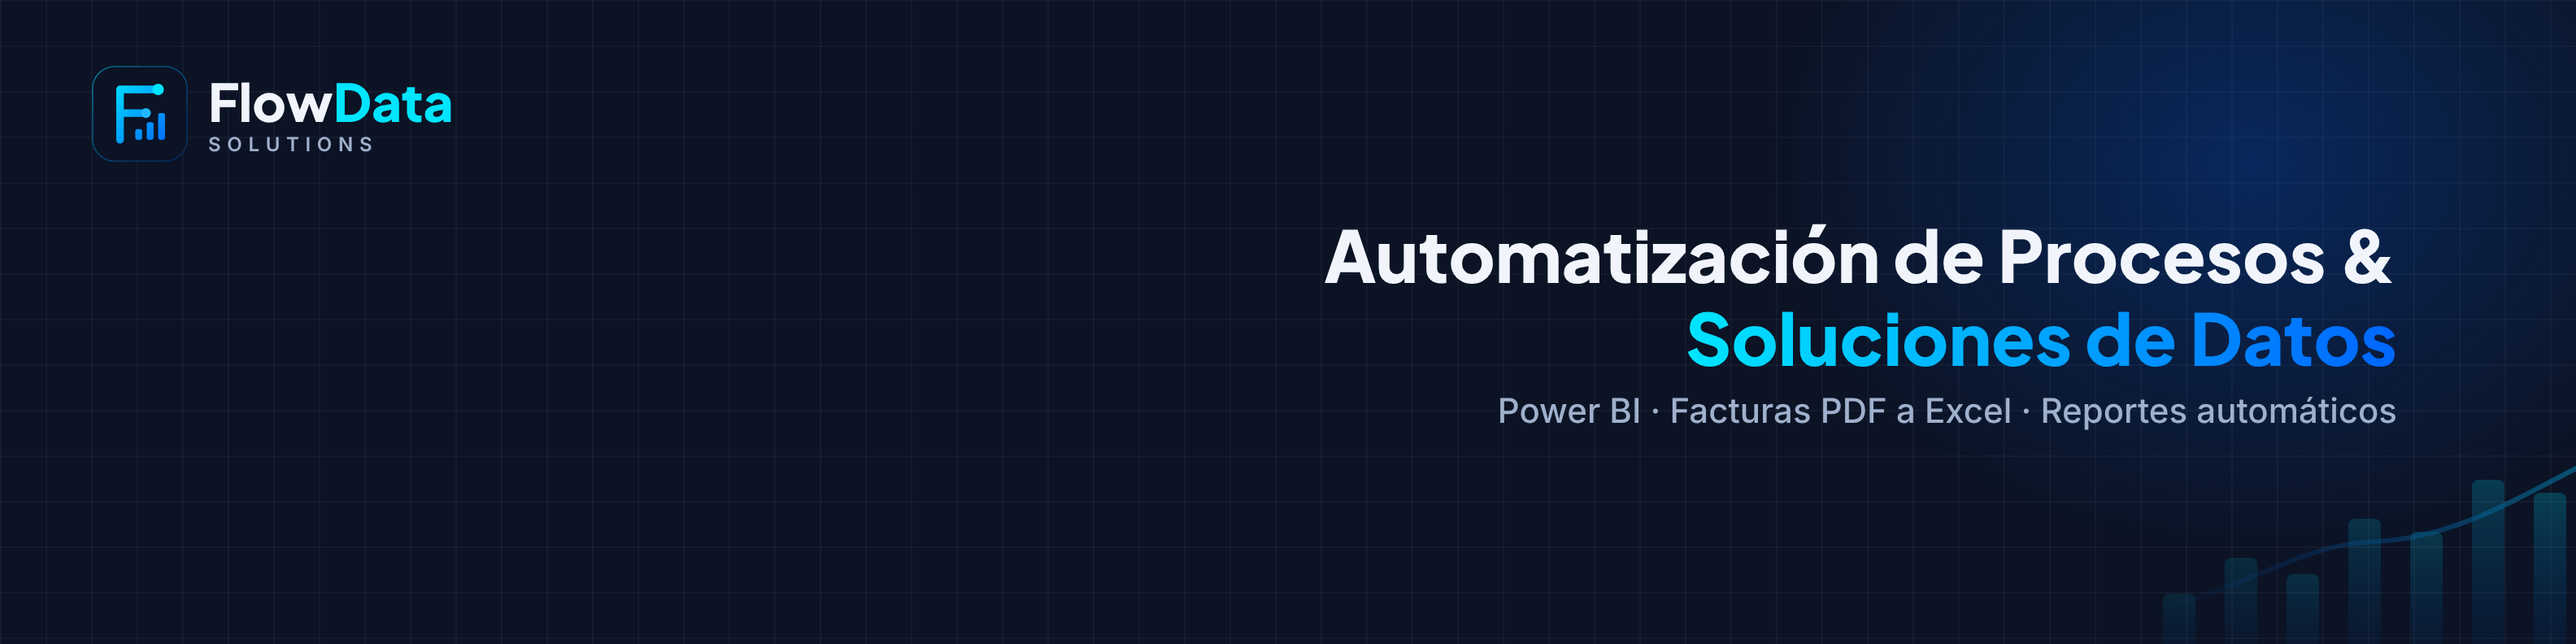
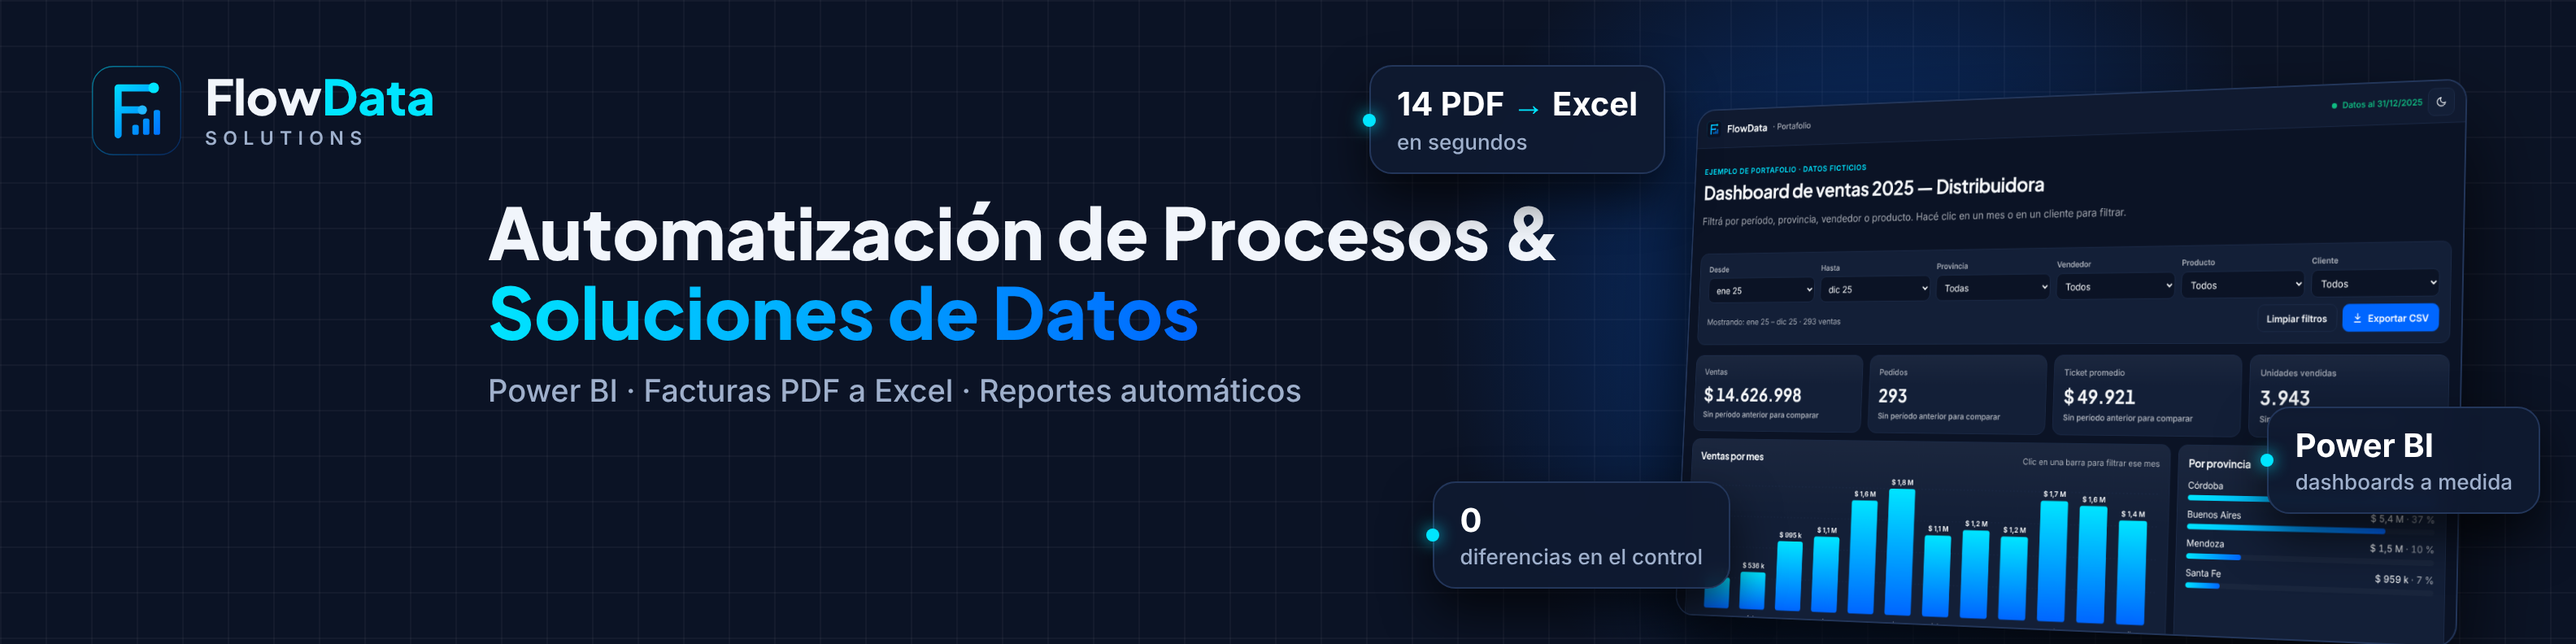
LinkedIn: portada con el dashboard del portafolio en lugar de la foto
Claude-Session: https://claude.ai/code/session_01Ugs44XARf7PNTcP8TDkjX2

diff --git a/gestion/perfil-linkedin.md b/gestion/perfil-linkedin.md
@@ -14,7 +14,7 @@
 |---|---|
 | Nombre | `Dante` · Apellido `I` (ajustado el 09/11: nombre de pila + inicial, como en Fiverr; la marca va en portada, titular y experiencia — LinkedIn no permite nombres de empresa en el campo del nombre) |
 | Foto | `marca/isotipo-400.png` |
-| Portada | `marca/linkedin-portada-perfil-1584x396.png` (4:1; la de 4200 × 700 es para páginas de empresa) |
+| Portada | `marca/linkedin-portada-perfil-1584x396.png` (4:1, con el dashboard del portafolio y tarjetas de métricas; sin la cara, porque ya está en la foto de perfil). La foto de perfil con la foto del dueño **no** se guarda en el repo público. |
 | Titular | `Dashboards en Power BI · Facturas PDF a Excel · Reportes automáticos.` |
 | Destacado | Enlace a la web ("Portafolio de FlowData Solutions") con la imagen de facturas PDF a Excel |
 | Acerca de | la descripción larga de la sección 2 (entra: máx. 2.600) |
